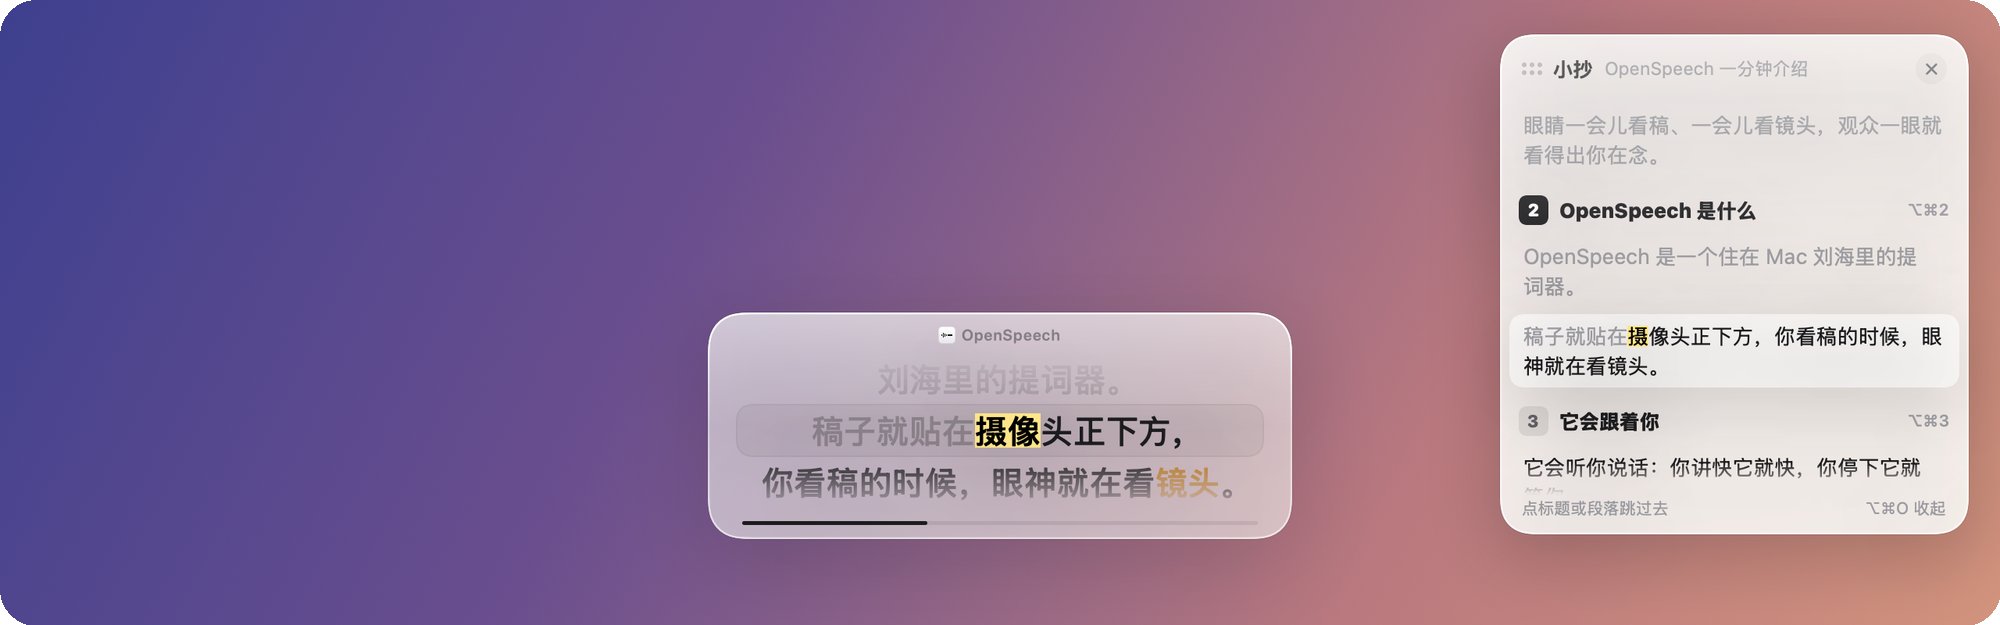
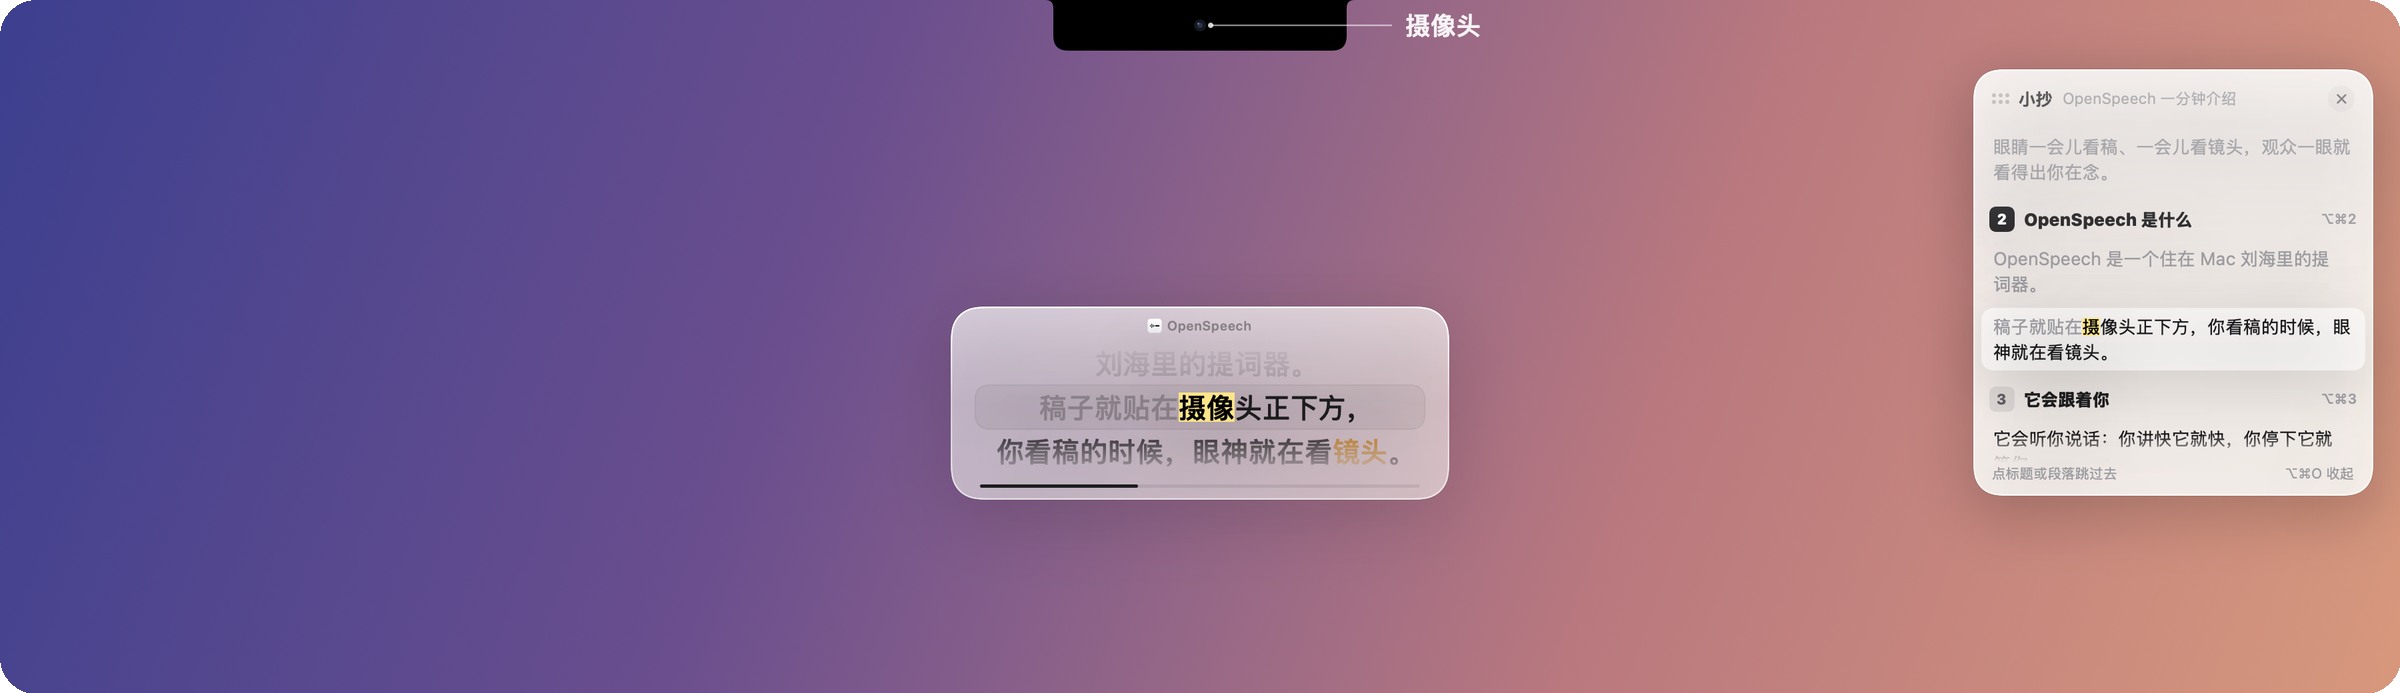
README images at true scale, with the MacBook notch and camera
- Hero, 01 and 02 are rendered at the full 14" MacBook Pro width
  (1800 pt), so the card's size and distance below the camera match
  the real default position
- Draw the hardware notch with a faint camera lens and label;
  01 adds the sight line and "≈ 5°"
- Screen-sharing comparison: card at its real size and position,
  notch on "your screen" only
- Remove unused prompter-card image and snapshot renders

diff --git a/Sources/ReadmeVideo.swift b/Sources/ReadmeVideo.swift
@@ -131,12 +131,12 @@ enum ReadmeVideo {
         follow.read(zh ? "它不会乱跳等你回到稿子再接着走" : "holds still until you come back", rate: normal, .normal)
         follow.hold(1.4, .normal)
 
-        render(eye, name: "eye", dir: dir, script: pitch, size: CGSize(width: 900, height: 480), camera: true, pill: false)
-        render(follow, name: "follow", dir: dir, script: pitch, size: CGSize(width: 900, height: 480), camera: false, pill: true)
+        render(eye, name: "eye", dir: dir, script: pitch, size: CGSize(width: 1800, height: 560), camera: true, annotate: true, pill: false)
+        render(follow, name: "follow", dir: dir, script: pitch, size: CGSize(width: 1800, height: 560), camera: true, annotate: false, pill: true)
     }
 
     @MainActor
-    static func render(_ tl: Timeline, name: String, dir: String, script: Script, size: CGSize, camera: Bool, pill: Bool) {
+    static func render(_ tl: Timeline, name: String, dir: String, script: Script, size: CGSize, camera: Bool, annotate: Bool, pill: Bool) {
         let out = URL(fileURLWithPath: dir).appendingPathComponent(name)
         try? FileManager.default.removeItem(at: out)
         try? FileManager.default.createDirectory(at: out, withIntermediateDirectories: true)
@@ -179,12 +179,12 @@ enum ReadmeVideo {
             let view = ZStack(alignment: .topLeading) {
                 LinearGradient(colors: [Color(hex: 0x3C3F8F), Color(hex: 0x6A4E8E), Color(hex: 0xB9787E), Color(hex: 0xD99A7C)],
                                startPoint: .topLeading, endPoint: .bottomTrailing)
-                if camera { CameraGuide(cameraY: model.geo.cameraY, card: card, width: size.width) }
+                if camera { CameraGuide(notch: model.notch, cameraY: model.geo.cameraY, card: card, width: size.width, annotate: annotate) }
                 IslandRootView(model: model, engine: engine, store: store, settings: settings, actions: actions, acceptsDrop: false)
                 if pill {
                     MomentPill(moment: m, levels: levels, speed: speed(m), fade: fade)
                         .frame(width: size.width)
-                        .offset(y: card.maxY + 22)
+                        .offset(y: card.maxY + 30)
                 }
             }
             .frame(width: size.width, height: size.height)
@@ -211,36 +211,55 @@ enum ReadmeVideo {
     }
 }
 
-/// 01：摄像头在屏幕正上方，卡片正在读的那一行就在它下面约 5°
-private struct CameraGuide: View {
+/// 屏幕顶上的硬件刘海，里面淡淡一颗摄像头，旁边标注 “摄像头”；
+/// annotate 时再画出视线和 “≈ 5°”：卡片正在读的那一行就在镜头下面约 5°。
+/// README 里整块屏幕宽的图会缩小到一半左右显示，所以标注文字画得比界面大
+struct CameraGuide: View {
+    let notch: NotchInfo
     let cameraY: CGFloat
     let card: CGRect
     let width: CGFloat
+    var annotate = true
 
     var body: some View {
         let x = width / 2
         ZStack(alignment: .topLeading) {
-            // 镜头
-            Circle().fill(Color(hex: 0x111114)).frame(width: 13, height: 13)
-                .overlay(Circle().fill(Color(hex: 0x2E3550)).frame(width: 5, height: 5))
-                .overlay(Circle().stroke(.white.opacity(0.35), lineWidth: 1))
+            NotchShape(topRadius: 6, bottomRadius: 11)
+                .fill(Color.black)
+                .frame(width: notch.width + 12, height: notch.height)
+                .position(x: x, y: notch.height / 2)
+            // 镜头：只看得出一点点
+            Circle().fill(Color(hex: 0x15171F)).frame(width: 9, height: 9)
+                .overlay(Circle().fill(Color(hex: 0x2A3350)).frame(width: 4, height: 4))
+                .overlay(Circle().fill(.white.opacity(0.35)).frame(width: 1.6, height: 1.6).offset(x: -1.4, y: -1.4))
                 .position(x: x, y: cameraY)
-            Text(tr("摄像头", "Camera"))
-                .font(.system(size: 12, weight: .semibold))
-                .foregroundColor(.white.opacity(0.85))
-                .position(x: x + 44, y: cameraY)
-            // 视线：镜头 → 卡片
+            // 标注：从镜头拉一条细线到刘海右边
             Path { p in
-                p.move(to: CGPoint(x: x, y: cameraY + 12))
-                p.addLine(to: CGPoint(x: x, y: card.minY - 6))
+                p.move(to: CGPoint(x: x + 8, y: cameraY))
+                p.addLine(to: CGPoint(x: x + notch.width / 2 + 34, y: cameraY))
             }
-            .stroke(.white.opacity(0.55), style: StrokeStyle(lineWidth: 1.2, dash: [3, 4]))
-            Text(tr("≈ 5°，看稿就像在看镜头", "≈ 5° — reading looks like eye contact"))
-                .font(.system(size: 12.5, weight: .medium))
-                .foregroundColor(.white.opacity(0.9))
-                .padding(.horizontal, 10).padding(.vertical, 4)
-                .background(Capsule().fill(.white.opacity(0.14)))
-                .position(x: x, y: (cameraY + card.minY) / 2 + 4)
+            .stroke(.white.opacity(0.55), lineWidth: 1.2)
+            Circle().fill(.white.opacity(0.8)).frame(width: 4, height: 4).position(x: x + 8, y: cameraY)
+            Text(tr("摄像头", "Camera"))
+                .font(.system(size: 20, weight: .semibold))
+                .foregroundColor(.white.opacity(0.92))
+                .fixedSize()
+                .frame(width: 160, alignment: .leading)
+                .position(x: x + notch.width / 2 + 44 + 80, y: cameraY)
+            if annotate {
+                Path { p in
+                    p.move(to: CGPoint(x: x, y: notch.height + 8))
+                    p.addLine(to: CGPoint(x: x, y: card.minY - 8))
+                }
+                .stroke(.white.opacity(0.6), style: StrokeStyle(lineWidth: 2, dash: [5, 6]))
+                Text(tr("≈ 5°，看稿就像在看镜头", "≈ 5° — reading looks like eye contact"))
+                    .font(.system(size: 21, weight: .semibold))
+                    .foregroundColor(.white)
+                    .fixedSize()
+                    .padding(.horizontal, 18).padding(.vertical, 8)
+                    .background(Capsule().fill(.white.opacity(0.16)))
+                    .position(x: x, y: (notch.height + card.minY) / 2 + 4)
+            }
         }
         .frame(width: width, alignment: .topLeading)
     }
@@ -254,33 +273,33 @@ private struct MomentPill: View {
     let fade: Double
 
     var body: some View {
-        HStack(spacing: 12) {
-            HStack(alignment: .center, spacing: 2.5) {
+        HStack(spacing: 18) {
+            HStack(alignment: .center, spacing: 4) {
                 ForEach(levels.indices, id: \.self) { i in
                     Capsule()
                         .fill(moment.speaking ? Theme.ink : Theme.ink3.opacity(0.5))
-                        .frame(width: 3, height: 3 + 14 * levels[i])
+                        .frame(width: 5, height: 5 + 24 * levels[i])
                 }
             }
-            .frame(width: 24, height: 18)
-            HStack(spacing: 8) {
+            .frame(width: 40, height: 30)
+            HStack(spacing: 12) {
                 Text(moment.said).foregroundColor(Theme.ink)
-                Image(systemName: "arrow.right").font(.system(size: 11, weight: .bold)).foregroundColor(Theme.ink3)
+                Image(systemName: "arrow.right").font(.system(size: 18, weight: .bold)).foregroundColor(Theme.ink3)
                 Text(moment.result).foregroundColor(Theme.ink2)
             }
-            .font(.system(size: 15, weight: .semibold))
+            .font(.system(size: 26, weight: .semibold))
             .opacity(fade)
-            Rectangle().fill(Theme.ink3.opacity(0.35)).frame(width: 1, height: 16)
+            Rectangle().fill(Theme.ink3.opacity(0.35)).frame(width: 1.5, height: 28)
             Text(speed)
-                .font(.system(size: 13, weight: .semibold, design: .rounded))
+                .font(.system(size: 22, weight: .semibold, design: .rounded))
                 .monospacedDigit()
                 .foregroundColor(Theme.ink2)
-                .frame(minWidth: 62)
+                .frame(minWidth: 110)
                 .opacity(fade)
         }
-        .padding(.horizontal, 18)
-        .frame(height: 44)
+        .padding(.horizontal, 30)
+        .frame(height: 72)
         .background(Capsule().fill(Color.white.opacity(0.9)))
-        .shadow(color: .black.opacity(0.18), radius: 14, y: 6)
+        .shadow(color: .black.opacity(0.18), radius: 22, y: 10)
     }
 }

diff --git a/Sources/Snapshot.swift b/Sources/Snapshot.swift
@@ -159,42 +159,9 @@ enum ReadmeSnapshot {
             return 0
         }
 
-        /// 被共享出去的那块屏幕：一页演示文稿
-        func slide() -> some View {
-            VStack(alignment: .leading, spacing: 0) {
-                HStack(spacing: 6) {
-                    ForEach([0xFF5F57, 0xFEBC2E, 0x28C840], id: \.self) { c in Circle().fill(Color(hex: UInt32(c))).frame(width: 9, height: 9) }
-                    Spacer()
-                }
-                .padding(10)
-                .background(Color(hex: 0xECECEF))
-                VStack(alignment: .leading, spacing: 14) {
-                    Text(zh ? "Q3 产品规划" : "Q3 Product Plan").font(.system(size: 30, weight: .bold)).foregroundColor(Color(hex: 0x1C1C1E))
-                    ForEach(zh ? ["用户增长：月活 +35%", "上线协作空间", "移动端体验重做"] : ["Growth: MAU +35%", "Launch shared workspaces", "Rebuild the mobile app"], id: \.self) { t in
-                        HStack(spacing: 10) {
-                            RoundedRectangle(cornerRadius: 2).fill(Color(hex: 0x5B5BD6)).frame(width: 4, height: 18)
-                            Text(t).font(.system(size: 17)).foregroundColor(Color(hex: 0x3A3A3F))
-                        }
-                    }
-                    HStack(alignment: .bottom, spacing: 14) {
-                        ForEach([0.45, 0.62, 0.8, 1.0], id: \.self) { h in
-                            RoundedRectangle(cornerRadius: 4).fill(Color(hex: 0x5B5BD6).opacity(0.25 + 0.6 * h)).frame(width: 46, height: 110 * h)
-                        }
-                    }
-                    .padding(.top, 6)
-                    Spacer()
-                }
-                .padding(28)
-                .frame(maxWidth: .infinity, maxHeight: .infinity, alignment: .topLeading)
-                .background(Color.white)
-            }
-            .clipShape(RoundedRectangle(cornerRadius: 12, style: .continuous))
-            .shadow(color: .black.opacity(0.3), radius: 24, y: 12)
-        }
-
         func render(_ name: String, w: CGFloat, h: CGFloat, cursor: Double, style: DisplayStyle = .glass,
-                    cheat: Bool = false, cardHovering: Bool = false, showCard: Bool = true, presentation: Bool = false,
-                    transparent: Bool = false) {
+                    cheat: Bool = false, cardHovering: Bool = false, showCard: Bool = true,
+                    transparent: Bool = false, lens: Bool = false) {
             let settings = PrompterSettings(defaults: defaults)
             settings.displayStyle = style
             settings.cheatSheet = cheat
@@ -217,7 +184,9 @@ enum ReadmeSnapshot {
                     LinearGradient(colors: [Color(hex: 0x3C3F8F), Color(hex: 0x6A4E8E), Color(hex: 0xB9787E), Color(hex: 0xD99A7C)],
                                    startPoint: .topLeading, endPoint: .bottomTrailing)
                 }
-                if presentation { slide().padding(.horizontal, 70).padding(.top, 140).padding(.bottom, 40) }
+                if lens, let card = IslandMetrics.layout(engine: engine, model: model, settings: settings).card {
+                    CameraGuide(notch: notch, cameraY: geo.cameraY, card: card, width: w, annotate: false)
+                }
                 if showCard {
                     IslandRootView(model: model, engine: engine, store: s, settings: settings, actions: actions, acceptsDrop: false)
                 }
@@ -231,14 +200,11 @@ enum ReadmeSnapshot {
             }
         }
 
-        // 首图 / 提词卡片：停在 “OpenSpeech 是什么” 这一段，荧光笔在 “镜头” / “eye contact”
+        // 首图 / 提词卡片：停在 “OpenSpeech 是什么” 这一段。首图用整块屏幕的宽度（14 寸 MacBook Pro 1800 pt），
+        // 卡片和摄像头的距离、占屏幕的比例都和真实默认位置一样
         let whatItIs = zh ? unit("摄像头") : unit("right below the camera", offset: 1)
-        render("hero", w: 1280, h: 640, cursor: whatItIs, cheat: true)
-        render("card", w: 900, h: 400, cursor: whatItIs, cardHovering: true)
-        // 共享屏幕对比：你看到的（演示文稿 + 提词卡片）和对方看到的（只有演示文稿）
-        render("share-you", w: 900, h: 560, cursor: whatItIs, presentation: true)
-        render("share-them", w: 900, h: 560, cursor: whatItIs, showCard: false, presentation: true)
-        // 只有提词卡片、背景透明：叠到真实桌面截图上（共享屏幕对比图用）
-        render("card-only", w: 900, h: 600, cursor: whatItIs, transparent: true)
+        render("hero", w: 1800, h: 640, cursor: whatItIs, cheat: true, lens: true)
+        // 只有提词卡片、背景透明、整块屏幕大小：按真实位置叠到桌面截图上（共享屏幕对比图用）
+        render("card-only", w: 1800, h: 1125, cursor: whatItIs, transparent: true)
     }
 }

diff --git a/README.md b/README.md
@@ -43,13 +43,13 @@ OpenSpeech puts your script as close to the lens as possible and lets it follow 
 
 Your script sits about 5° below the camera. The word you're on gets a highlighter, so one glance tells you where you are.
 
-<p align="center"><img src="docs/images/en/eye.webp" width="600" alt="The prompter card right below the camera, the highlighter moving as you read"></p>
+<p align="center"><img src="docs/images/en/eye.webp" width="100%" alt="The prompter card right below the camera, the highlighter moving as you read"></p>
 
 ### 02 · Fast or slow, it keeps up
 
 On-device speech recognition tracks where you are. Talk faster and it speeds up; slow down and it slows too; pause and it waits; go off script and it holds still. Headings are signposts you don't read aloud, and it steps right over them.
 
-<p align="center"><img src="docs/images/en/follow.webp" width="600" alt="How the prompter reacts when you talk faster, slow down, pause or go off script"></p>
+<p align="center"><img src="docs/images/en/follow.webp" width="100%" alt="How the prompter reacts when you talk faster, slow down, pause or go off script"></p>
 
 ### 03 · Invisible when you share your screen
 

diff --git a/README.zh-CN.md b/README.zh-CN.md
@@ -43,13 +43,13 @@ OpenSpeech 把稿子放到离镜头最近的地方，让它自己跟着你的声
 
 稿子贴在摄像头正下方约 5°。正在读的字用荧光笔标出来，扫一眼就知道讲到哪了。
 
-<p align="center"><img src="docs/images/eye.webp" width="600" alt="摄像头正下方的提词卡片，荧光笔跟着朗读往前走"></p>
+<p align="center"><img src="docs/images/eye.webp" width="100%" alt="摄像头正下方的提词卡片，荧光笔跟着朗读往前走"></p>
 
 ### 02 · 讲快讲慢，它都跟得上
 
 本机语音识别听你讲到哪：讲快它就快，讲慢它就慢，停下它就等你，脱稿也不会乱跳。标题只是路牌，不用念，会自动跨过去。
 
-<p align="center"><img src="docs/images/follow.webp" width="600" alt="讲快、讲慢、停下、脱稿时提词器的反应"></p>
+<p align="center"><img src="docs/images/follow.webp" width="100%" alt="讲快、讲慢、停下、脱稿时提词器的反应"></p>
 
 ### 03 · 共享屏幕时，对方看不到
 
